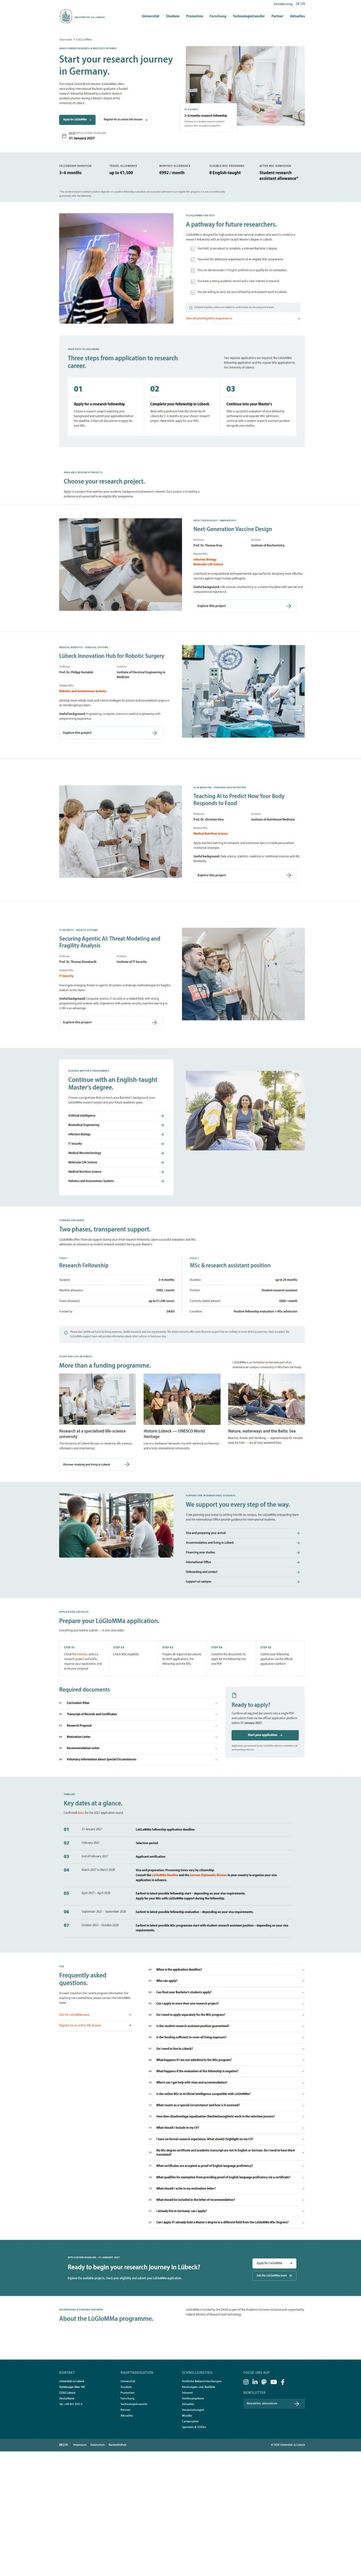
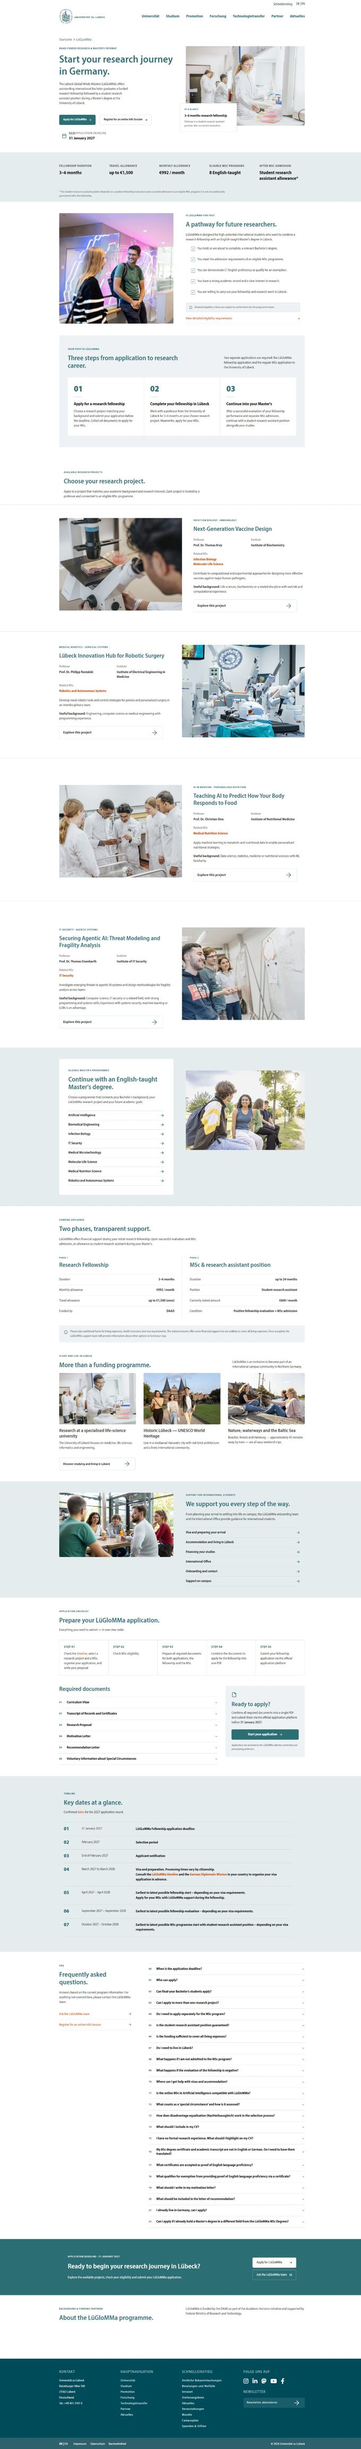
Neuer Full-Page-Screenshot LueGloMMa

diff --git a/index.html b/index.html
@@ -1987,7 +1987,7 @@ a.contact-detail-value:hover { color: var(--accent); }
                   <source srcset="/images/uni-web-full.webp" type="image/webp">
                   <img src="/images/uni-web-full.jpg"
                        alt="Vollst&auml;ndige L&uuml;GloMMa-Seite der Universit&auml;t zu L&uuml;beck vom Kopfbereich bis zum Fu&szlig;"
-                       width="680" height="4844" loading="lazy" decoding="async">
+                       width="680" height="4606" loading="lazy" decoding="async">
                 </picture>
               </div>
             </div>
